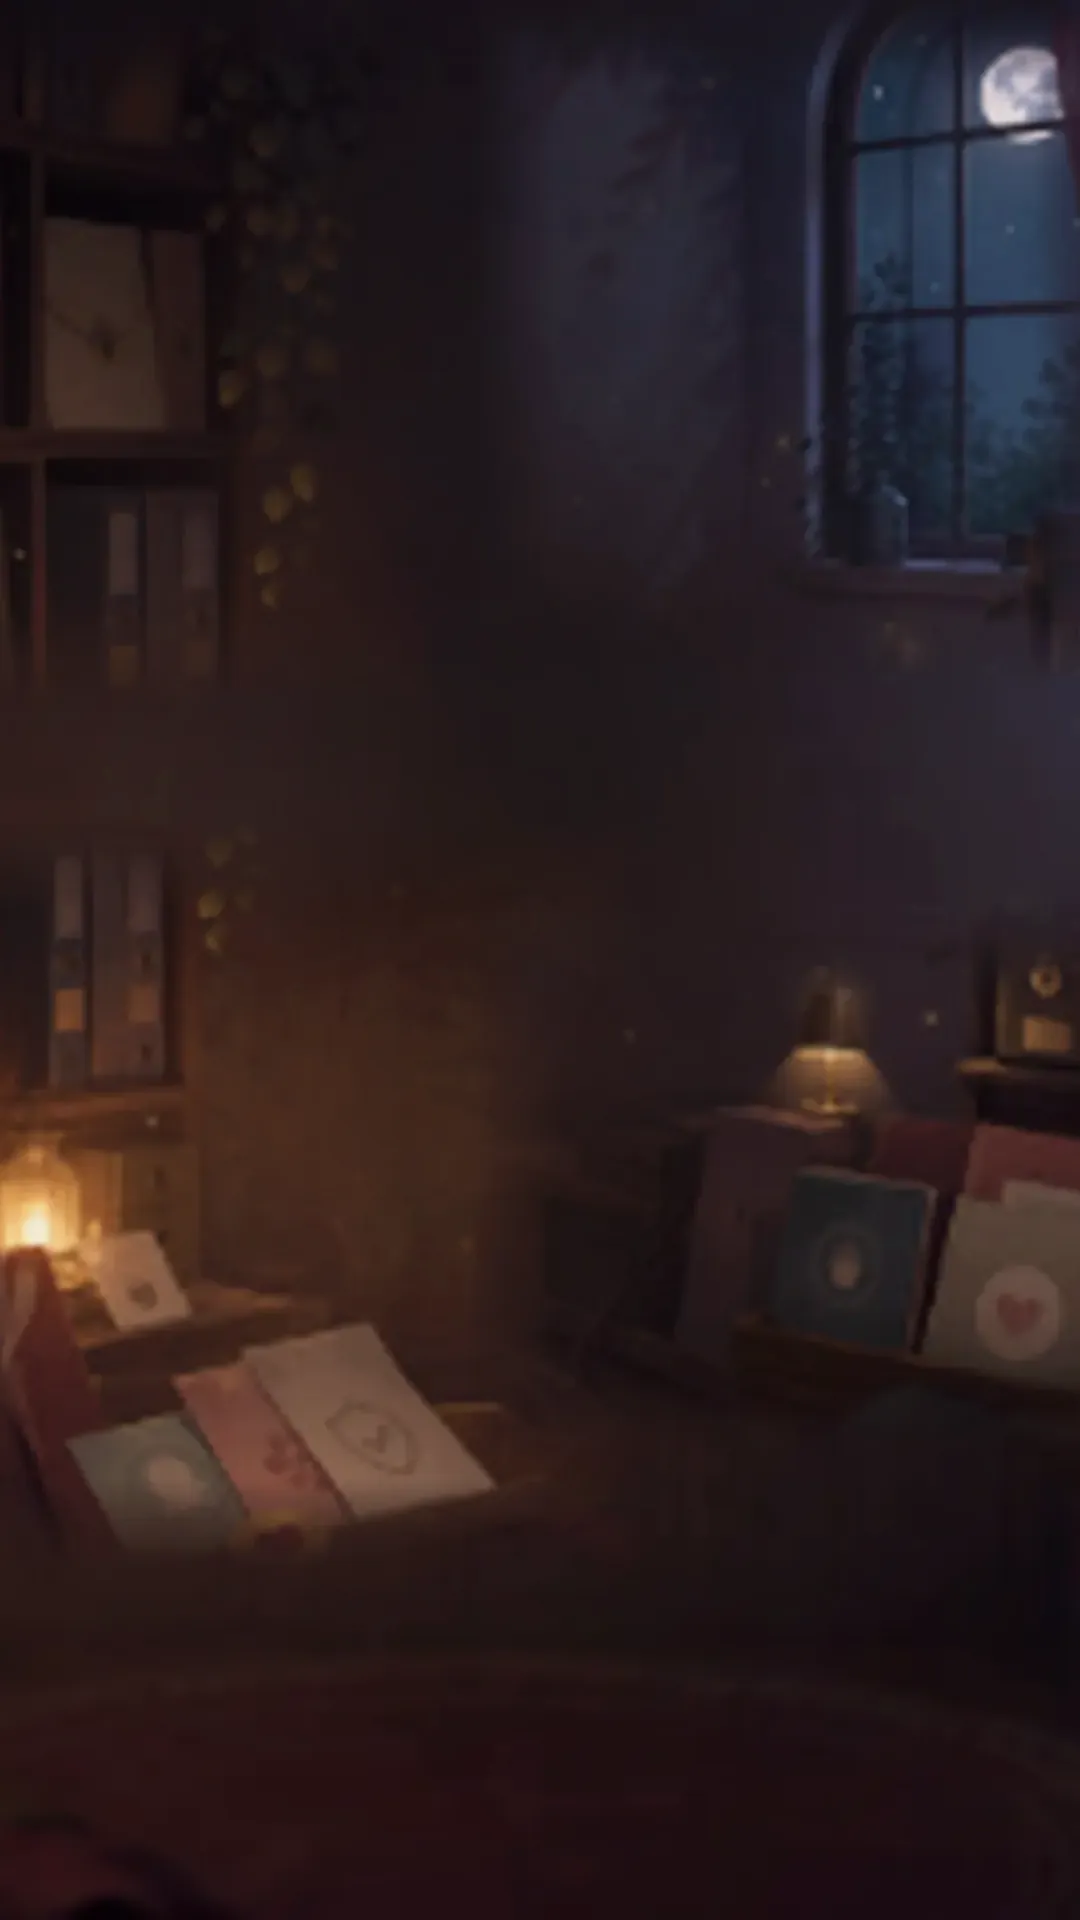
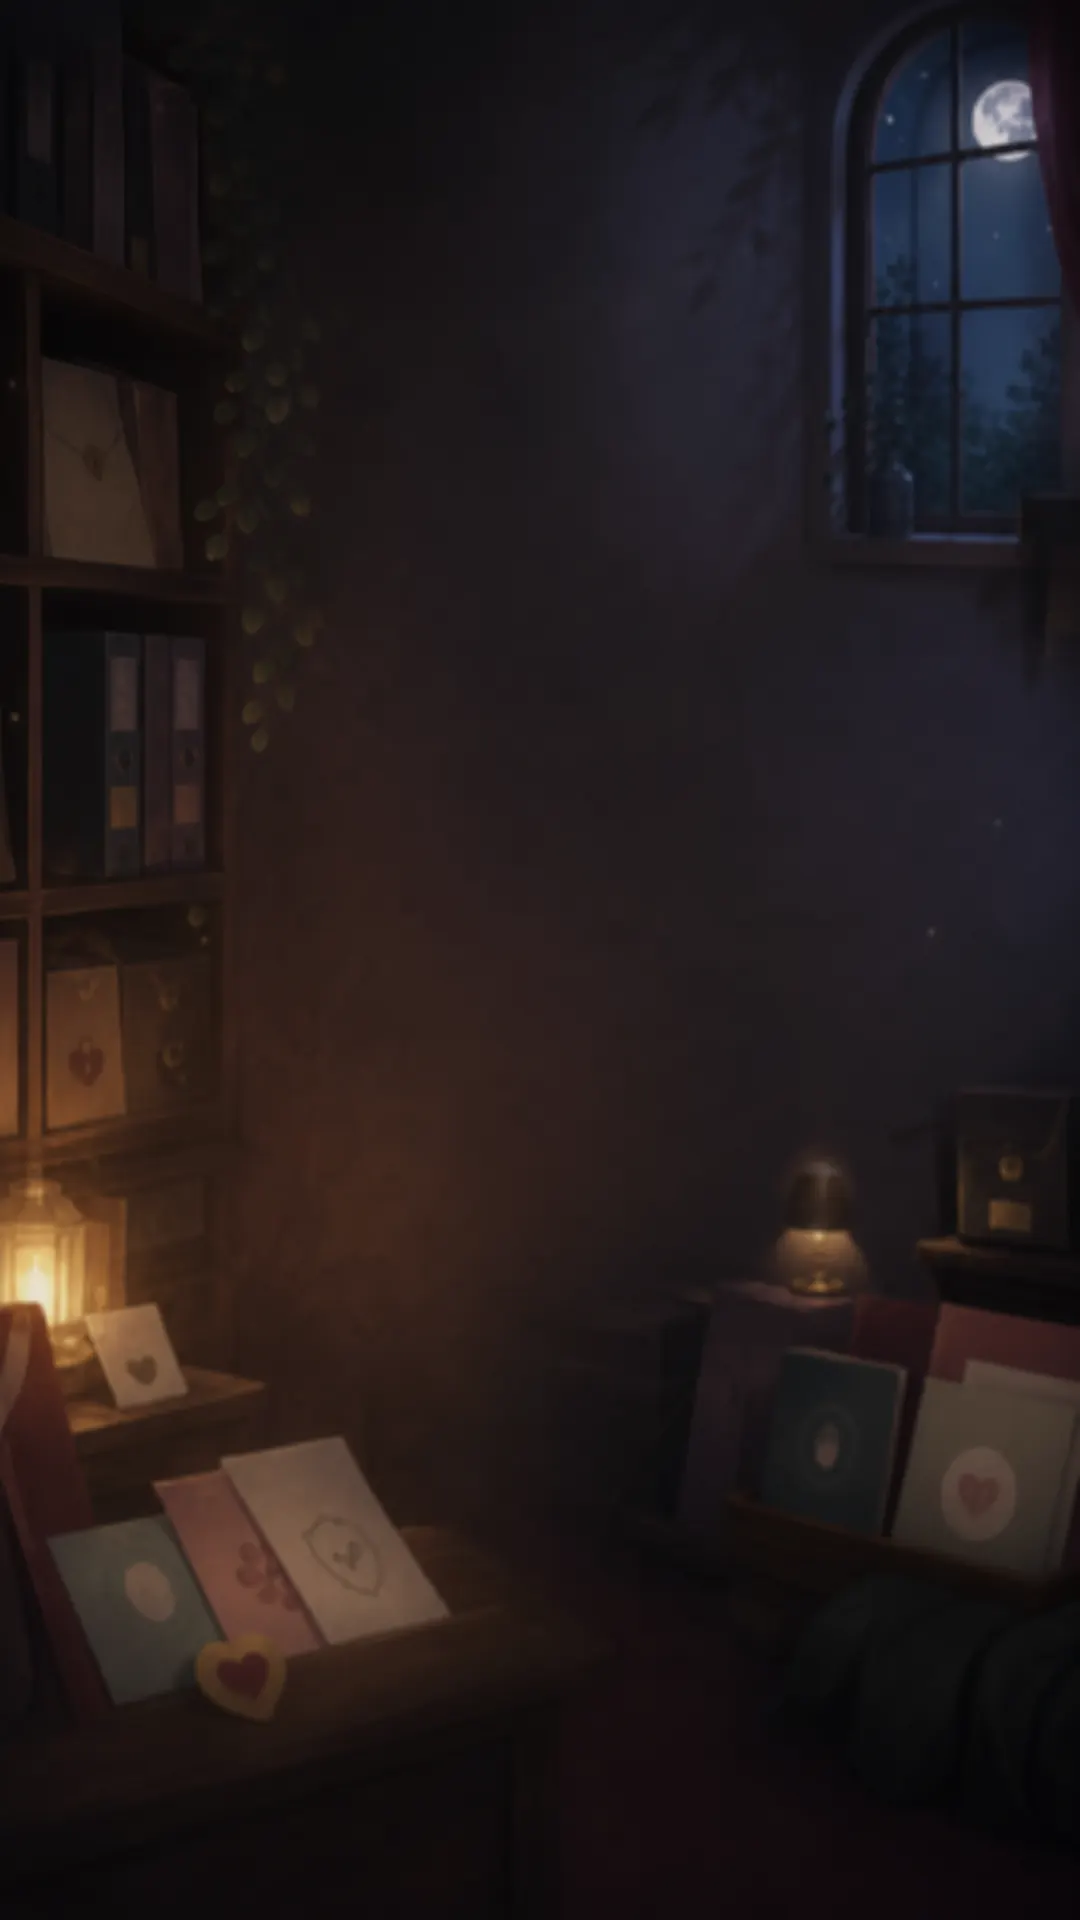
Feat: 修正背景

diff --git a/src/styles.css b/src/styles.css
@@ -128,7 +128,7 @@ input:focus-visible {
     linear-gradient(180deg, rgba(9, 5, 8, 0.08), rgba(9, 5, 8, 0.28)),
     url("./assets/backgrounds/secret-archive-desktop.webp") center / cover no-repeat,
     linear-gradient(122deg, #11080e 0 42%, #331925 72%, #160c12 100%);
-  filter: blur(7px) brightness(0.82) saturate(0.92);
+  filter: blur(1.2px) brightness(0.82) saturate(0.92);
   transform: scale(1.07);
 }
 
@@ -1266,7 +1266,7 @@ input:focus-visible {
 
   to {
     opacity: 1;
-    filter: blur(1.2px) brightness(1.24) saturate(1.08);
+    filter: blur(1.6px) brightness(1.24) saturate(1.08);
     transform: scale(1.008);
   }
 }
@@ -1294,7 +1294,7 @@ input:focus-visible {
 
   to {
     opacity: 1;
-    filter: blur(2.4px) brightness(0.9) saturate(0.96);
+    filter: blur(0.8px) brightness(0.9) saturate(0.96);
     transform: scale(1.025);
   }
 }
@@ -1587,7 +1587,7 @@ input:focus-visible {
       linear-gradient(180deg, rgba(9, 5, 8, 0.04), rgba(9, 5, 8, 0.18) 48%, rgba(9, 5, 8, 0.56) 100%),
       url("./assets/backgrounds/secret-archive-mobile.webp") center bottom / cover no-repeat,
       linear-gradient(122deg, #11080e 0 42%, #331925 72%, #160c12 100%);
-    filter: blur(2.4px) brightness(1) saturate(1.02);
+    filter: blur(1.2px) brightness(1) saturate(1.02);
     transform: scale(1.025);
     animation: home-mobile-background-rise 780ms ease-out both;
   }
@@ -1605,7 +1605,7 @@ input:focus-visible {
       url("./assets/backgrounds/secret-archive-mobile.webp") center bottom / cover no-repeat,
       linear-gradient(122deg, #11080e 0 42%, #331925 72%, #160c12 100%);
     opacity: 1;
-    filter: blur(2.4px) brightness(1) saturate(1.02);
+    filter: blur(1.2px) brightness(1) saturate(1.02);
     transform: scale(1.025);
   }
 